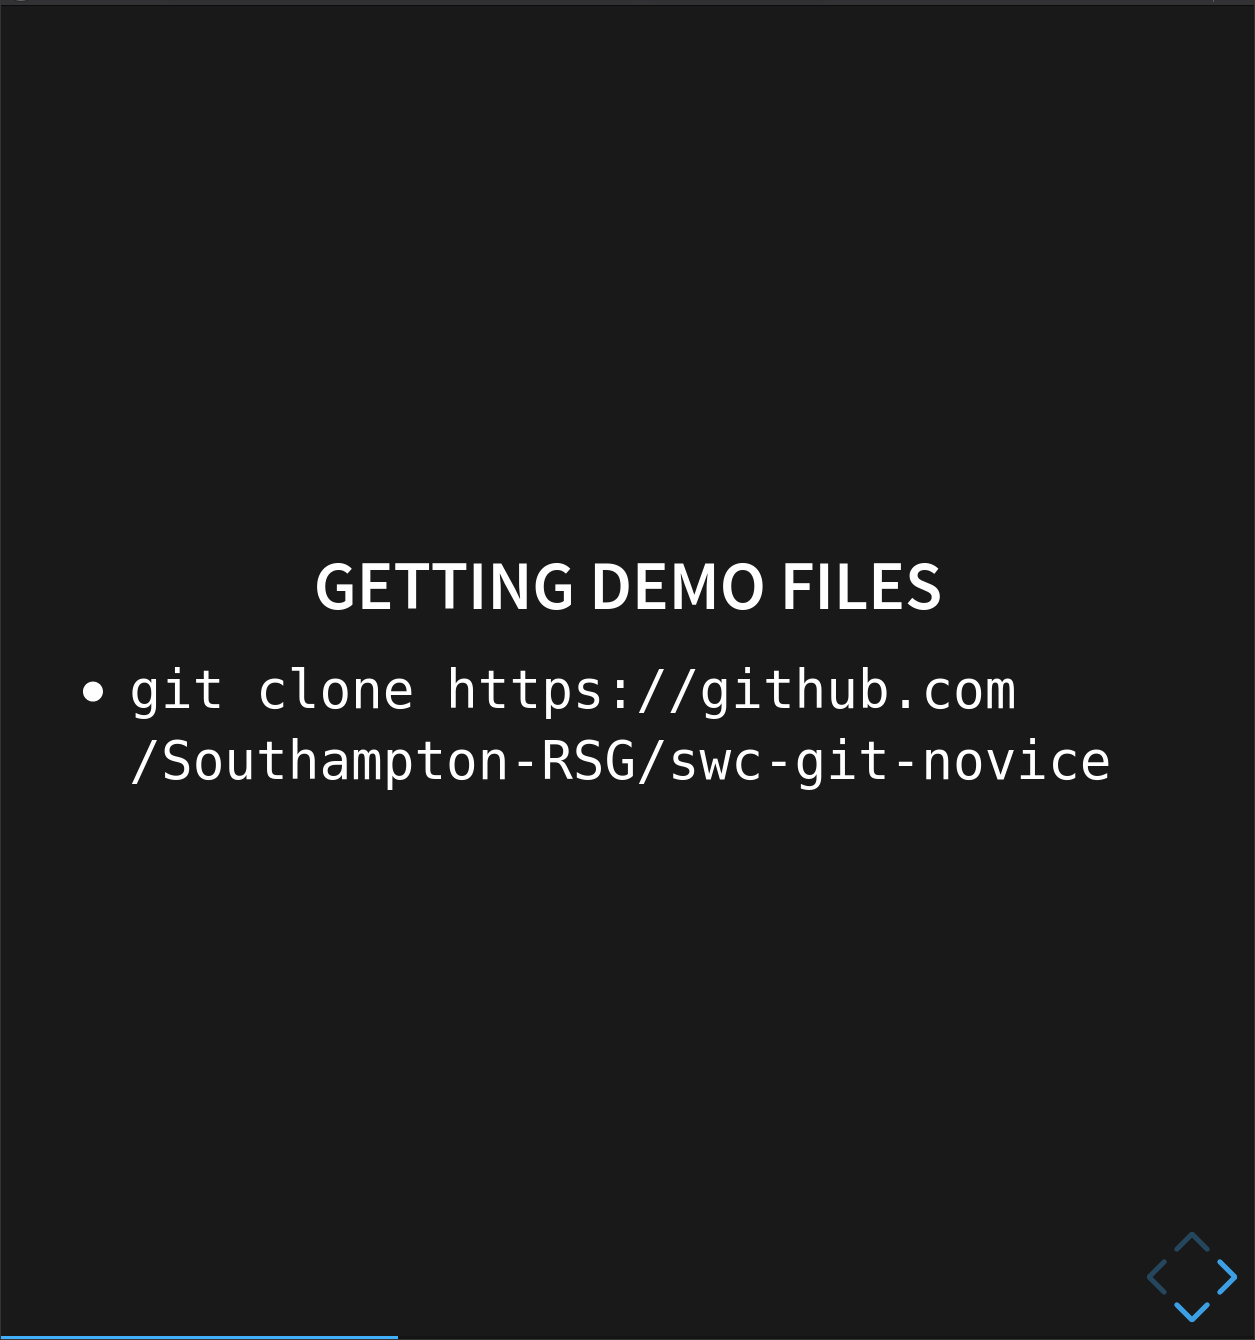
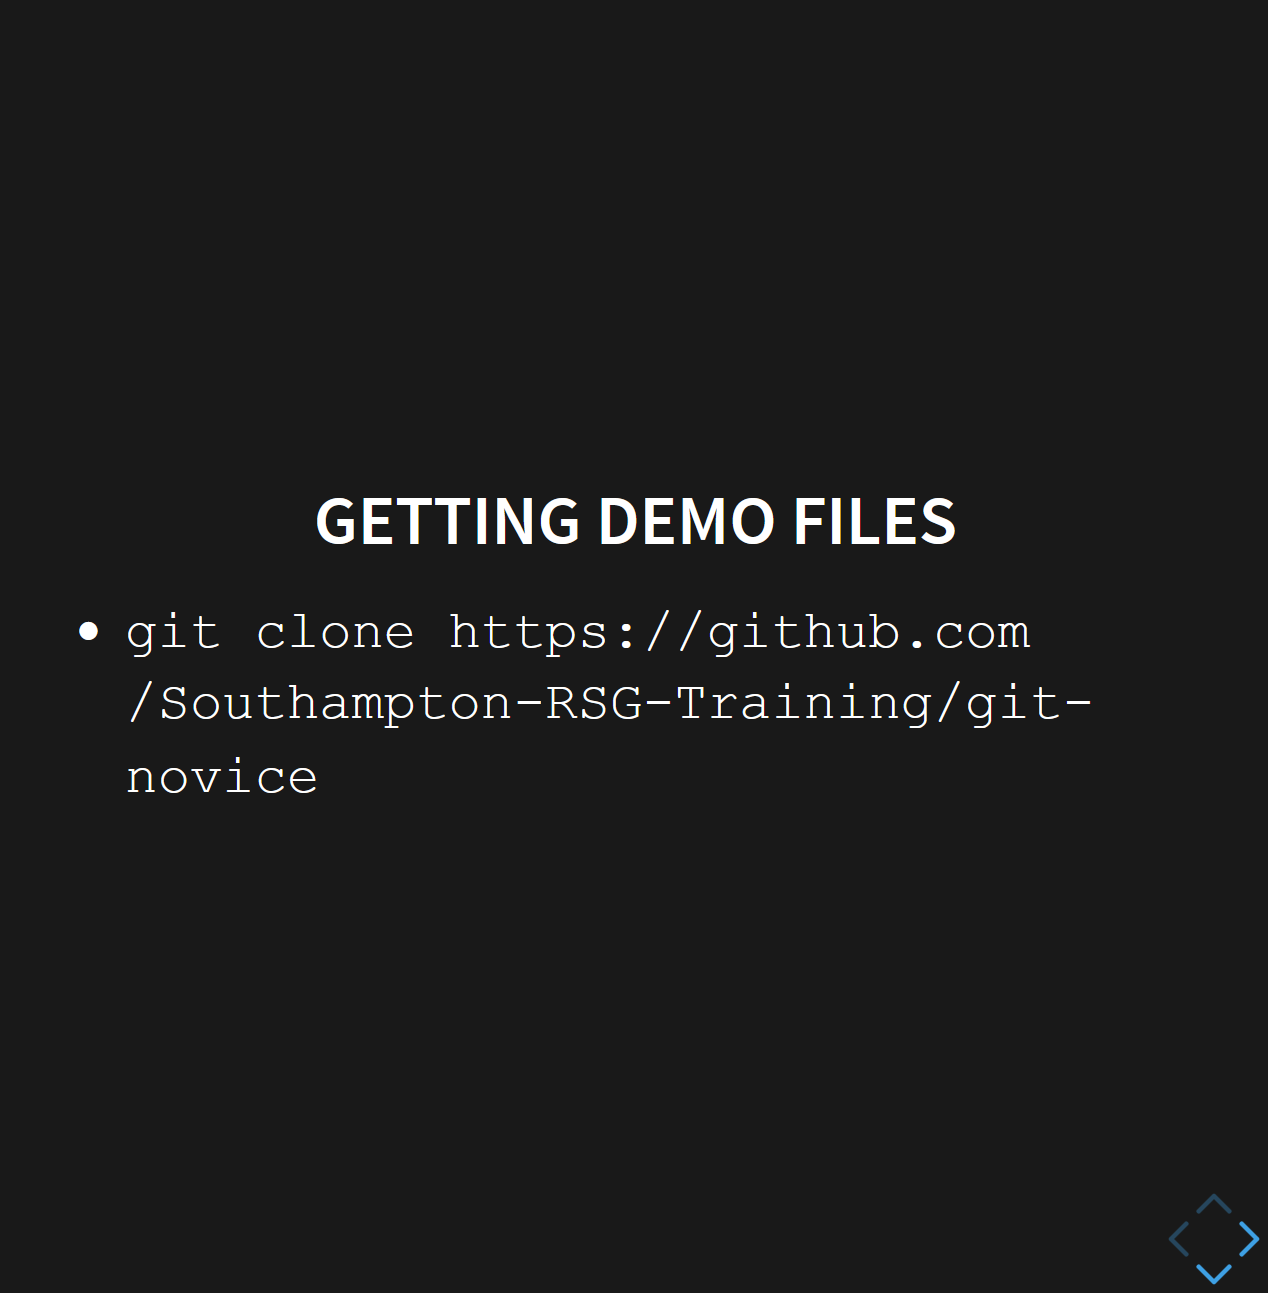
Updated paths to new repo, moved default branch section (issues #1, #2)

diff --git a/slides/index.html b/slides/index.html
@@ -309,6 +309,7 @@ Git Desktop
     </div>
   </div>
 
+  <script src="reveal.js/lib/js/head.min.js"></script>
   <script src="reveal.js/js/reveal.js"></script>
 
   <script>

diff --git a/_episodes/06-collab.md b/_episodes/06-collab.md
@@ -467,6 +467,13 @@ Once you've finished and tested your new work, then you can submit a **pull requ
 
 In some collaborations, only some people have permission to **merge pull requests** to the ‘dev’ and ‘master’ branches. This makes sure that nothing gets into the shared versions of the code without it being properly reviewed and tested by others.
 
+#### Configuring GitHub
+
+By default, GitHub creates pull requests from any branch to ‘master’. We want our pull requests to go to ‘dev’ instead, so we'll set that as the new default. Go to GitHub, and under **Settings -> Branches -> Default branch**, switch it from ‘master’ to ‘dev’.
+
+![Settings to change the default branch](fig/06-collab/default-branch.png)
+![Switching the default branch to dev](fig/06-collab/default-branch-dev.png)
+
 > ## When To Branch
 >
 > The feature-branch workflow is incredibly helpful, but does add a bit of overhead.

diff --git a/_episodes/07-conflict.md b/_episodes/07-conflict.md
@@ -58,15 +58,7 @@ def inches_to_mm(inches):
 
 ![First branch changes](fig/slides/07-conflict/3_changes.png){:width="20%"}
 
-We're going to create a situation just like this. 
-
-### Configuring GitHub
-
-We'll follow the **feature-branch workflow** introduced last section, by creating a new branch for each of two conflicting features. First, we'll set up GitHub to make this a bit easier for us.
-By default, GitHub creates pull requests from any branch to 'master'. We want our pull requests to go to 'dev' instead, so we'll set that as the new default. Go to GitHub, and under **Settings -> Branches -> Default branch**, switch it from 'master' to 'dev'.
-
-![Settings to change the default branch](fig/07-conflict/default-branch.png)
-![Switching the default branch to dev](fig/07-conflict/default-branch-dev.png)
+We're going to create a situation just like this.
 
 ### Feature branch 1
 

diff --git a/_episodes/03-create.md b/_episodes/03-create.md
@@ -21,7 +21,7 @@ keypoints:
 First, if we haven't already we need to download the demonstration code to our computer. It's stored in git, so we do it as:
 
 ~~~
-$ git clone http://github.com/Southampton-RSG/swc-git-novice
+$ git clone http://github.com/Southampton-RSG-Training/git-novice
 ~~~
 {: .language-bash}
 
@@ -32,7 +32,7 @@ This will download all our test files to our computer. Don't worry, we'll explai
 Now, let's **change to our code directory**.
 
 ~~~
-$ cd ~/swc-git-novice/code
+$ cd ~/git-novice/code
 $ ls
 ~~~
 {: .language-bash}

diff --git a/setup.md b/setup.md
@@ -54,7 +54,7 @@ Finally, go to [your Settings -> SSH keys page and add a new SSH key](https://gi
 Now we are ready to download the code that we need for this lesson, using Git on the command line. Open a terminal on your machine, and enter:
 ~~~
 $ cd
-$ git clone https://github.com/Southampton-RSG/swc-git-novice
+$ git clone https://github.com/Southampton-RSG-Training/git-novice
 ~~~
 {: .language-bash}
 
